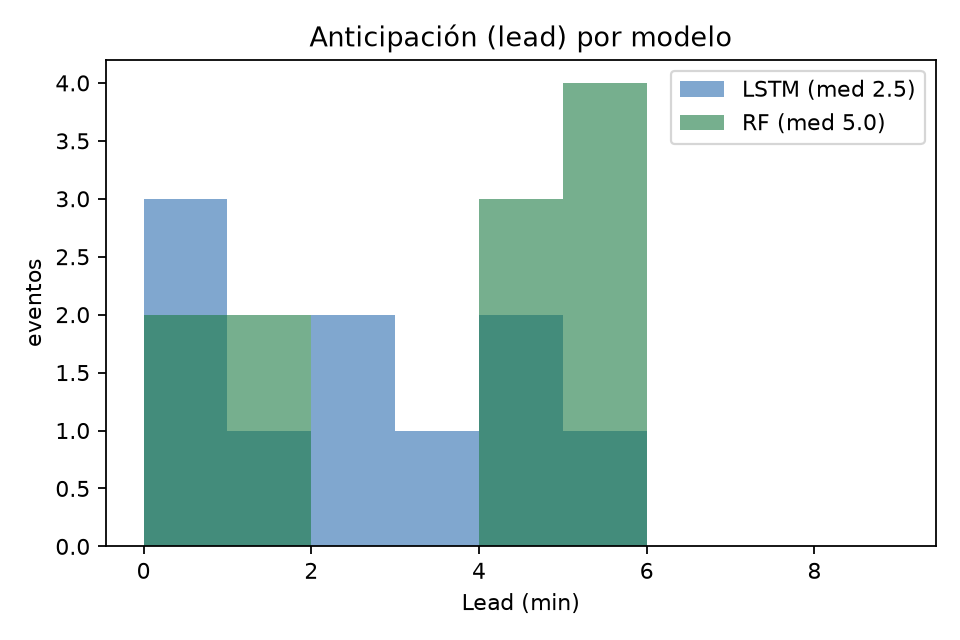
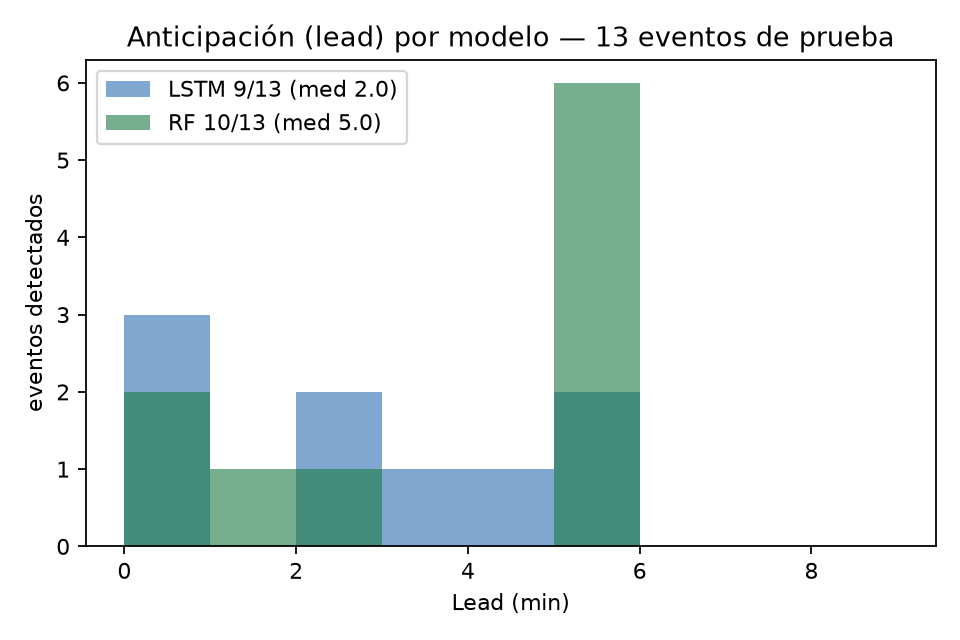
docs: fix lead-event counting to 13 events (exclude boundary run)
Thesis uses 13 independent test events (excludes the boundary run 2026-11-14
19:56->20:10 UTC whose T_f falls outside the test window). Updates:
- cifras_capitulo4.csv: F.16 median 2.5->2.0; add detection 9/13 & 10/13, lead>=3min 4/6, lead>=5min 2/6
- graficos/datos_lead.csv + lead_por_modelo.png: 9 LSTM + 10 RF leads (no boundary)
- GUIA_REVISOR.md: note explaining events_evaluated=14 (contiguous runs) vs 13 independent events

No model metric changes (PR-AUC/ROC-AUC/bootstrap/FA-day unchanged); runs/models untouched.

diff --git a/docs/GUIA_REVISOR.md b/docs/GUIA_REVISOR.md
@@ -29,6 +29,15 @@ recall, F1, matriz de confusión, falsas alarmas/día y lead time) para la LSTM 
 base (Random Forest y naive de calendario). Cada `run_metadata.json` documenta configuración,
 features, particiones, semilla y commit.
 
+> **Conteo de eventos de prueba (13, no 14).** El campo `lead_time.events_evaluated` del
+> `metrics.json` vale 14 porque cuenta *corridas positivas contiguas*. La tesis usa
+> **13 eventos independientes**, excluyendo la corrida de borde 2026-11-14 19:56→20:10 UTC,
+> cuyo instante de falla (T_f) cae justo fuera de la ventana de prueba. Con el criterio de 13
+> eventos: la LSTM detecta **9/13** y el RF **10/13**; lead mediano **2,0 / 5,0 min**; con
+> anticipación ≥ 3 min 4 / 6 y ≥ 5 min 2 / 6 (ver `docs/resultados/cifras_capitulo4.csv` y
+> `docs/graficos/lead_por_modelo.*`). Este recuento **no afecta** ninguna métrica de modelo
+> (PR-AUC, ROC-AUC, IC bootstrap, FA/día), que son independientes del evaluador de lead.
+
 ## 3. Configuración del modelo (fuente: `ml/config.py`)
 
 LSTM(64) → Dropout(0,2) → LSTM(32) → Dropout(0,2) → Dense(16, ReLU) → Dropout(0,2) → Dense(1, sigmoid).
